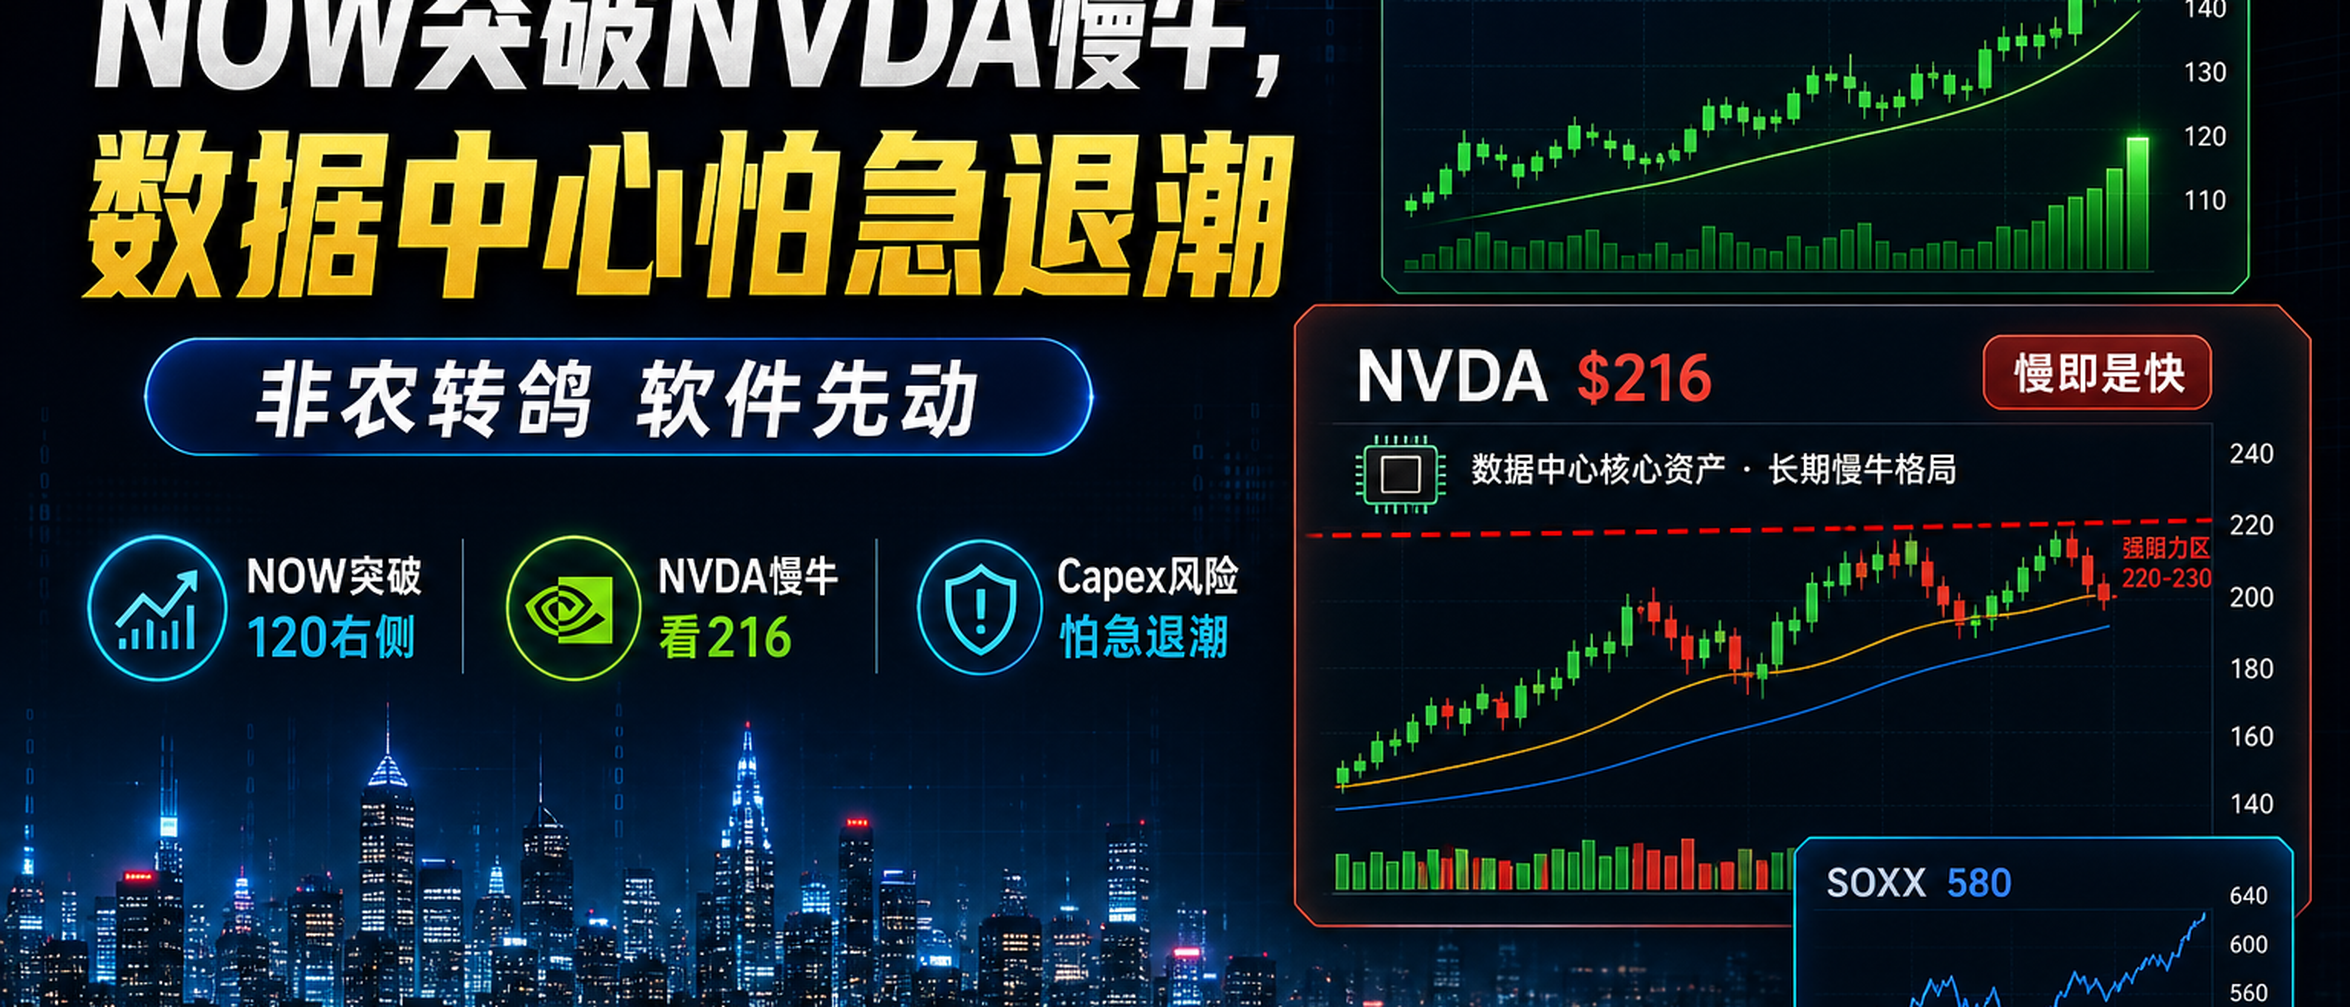
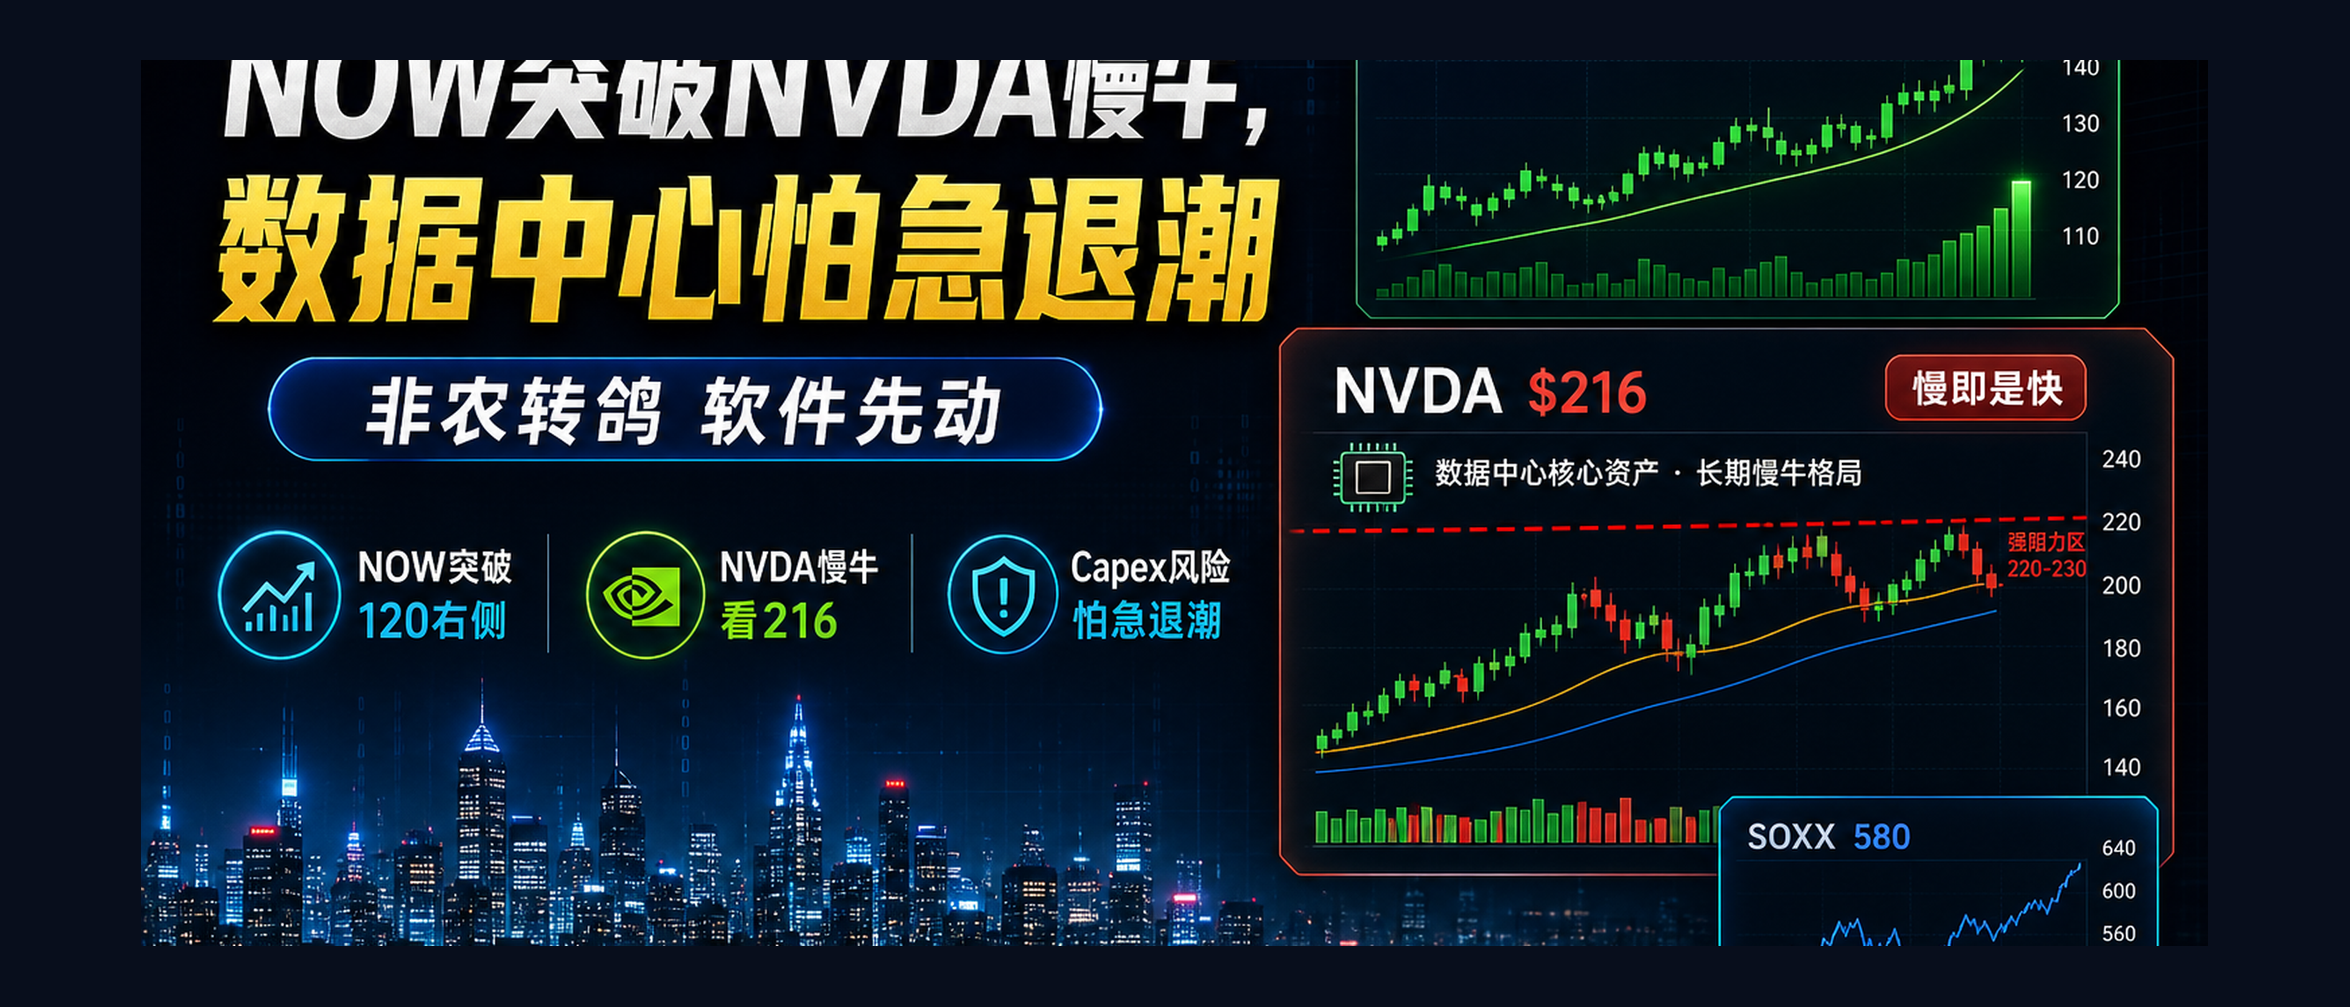
fix(cover): pad WeChat 头图 safe inset and full-frame 2.35 crop (#74)
Shrink artwork inside 21:9 with navy padding so titles/callouts are not
clipped in the draft preview, and set cover_info to use the full thumb.

diff --git a/scripts/wechat_draft.py b/scripts/wechat_draft.py
@@ -592,6 +592,25 @@ def create_draft(args: argparse.Namespace, access_token: str) -> dict:
         "content_source_url": args.content_source_url,
         "need_open_comment": 1,
         "only_fans_can_comment": 0,
+        # Full-frame 2.35:1 crop (no zoom). 1:1 uses the horizontal center square.
+        "cover_info": {
+            "crop_percent_list": [
+                {
+                    "ratio": "2.35_1",
+                    "x1": "0",
+                    "y1": "0",
+                    "x2": "1",
+                    "y2": "1",
+                },
+                {
+                    "ratio": "1_1",
+                    "x1": "0.2857",
+                    "y1": "0",
+                    "x2": "0.7143",
+                    "y2": "1",
+                },
+            ]
+        },
     }
     if args.thumb_media_id:
         article["thumb_media_id"] = args.thumb_media_id
